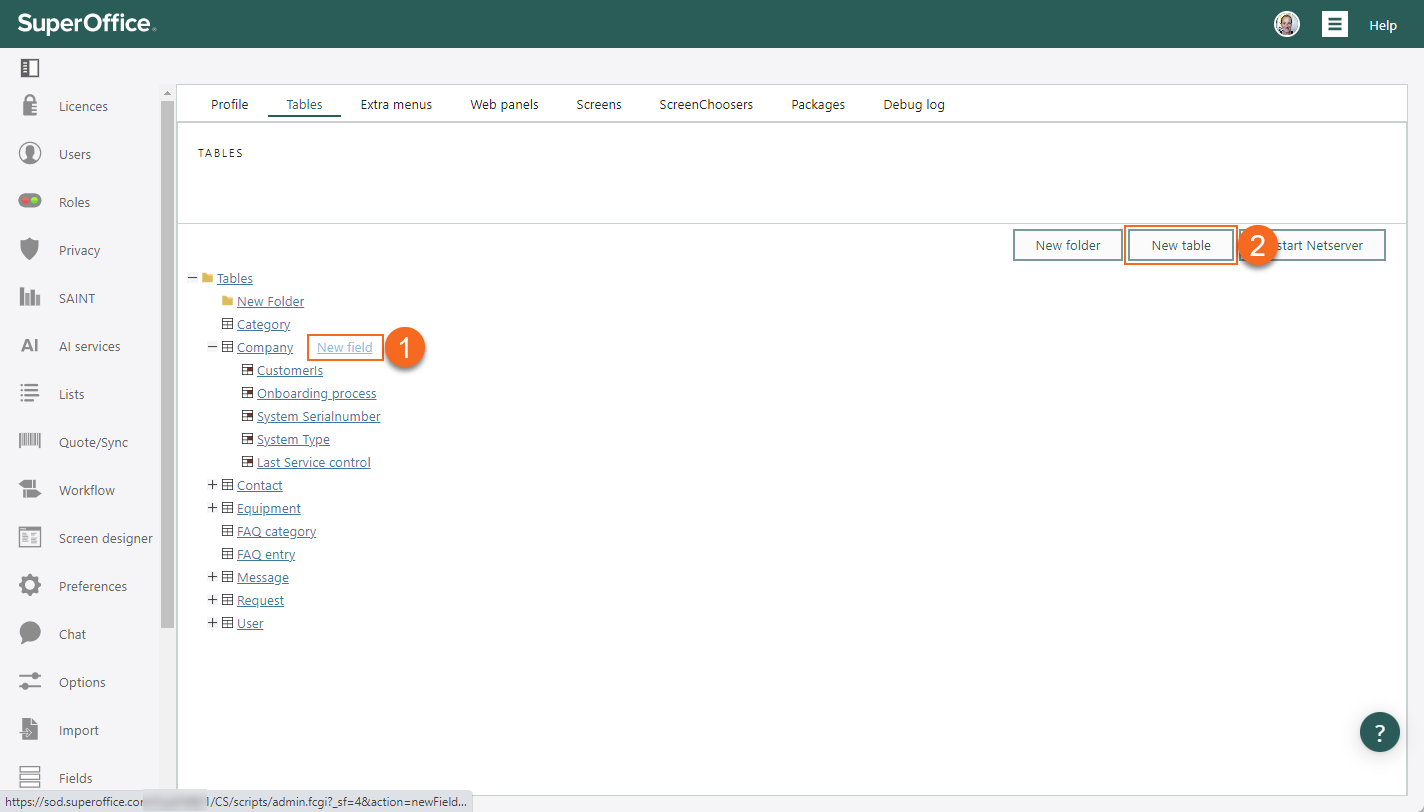
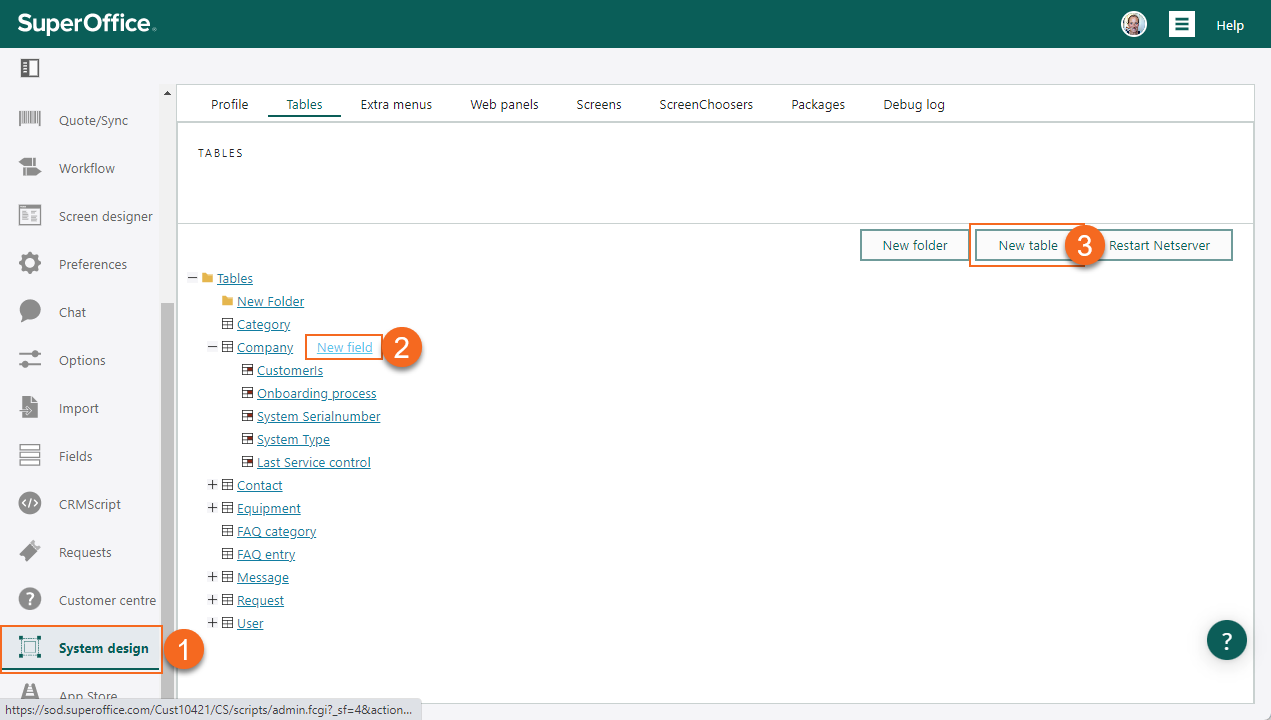
#608 Fine tune custom object

Changed region(s): [[0.0, 0.0, 1.0, 1.0], [0.6751, 0.1222, 1.0, 0.9778]]

diff --git a/docs/en/custom-objects/learn/index.md b/docs/en/custom-objects/learn/index.md
@@ -18,21 +18,26 @@ so.user.tooltip: Settings and maintenance
 
 ## User defined fields
 
-All companies and organizations have their own requirements for the information they need to register concerning their customers, sales, projects, contracts, and so on. You can enter your own fields for SuperOffice CRM in the **Fields** screen. This way, you can customize the type of information that can be registered concerning companies, contacts, projects, sales, documents and follow-ups.
+All companies and organizations have their own requirements for the information they need to register concerning their contacts, sales, projects, contracts, and so on. You can enter your own fields for SuperOffice CRM in the **Fields** screen. This way, you can customize the type of information that can be registered concerning companies, contacts, projects, sales, documents and follow-ups.
 
 ## Custom fields and tables
 
-A good example of a custom field you can use on the customer's Contact card is a field called "Satisfied customer", where the value of the field is Yes or No.
+A good example of a custom field you can use on the **Contact** card is a field called "Satisfied customer", where the value of the field is Yes or No.
 
-For example, you can send your customers a mailing (with link actions) where they can state whether they are satisfied with your services. This will give you valuable insight into the general customer satisfaction rate.
+For example, you can send your contacts a mailing (with link actions) where they can state whether they are satisfied with your services. This will give you valuable insight into the general customer satisfaction rate.
 
-Of course, you can add a wide range of tables and fields to SuperOffice Service to save any information your customer service agents need.
+Of course, you can add a wide range of tables and fields to SuperOffice to save any information your customer service agents need.
 
 ![In the Tables screen, you can either choose to (a) create an extra field or (b) create a new table -screenshot][img1]
 
+### Extra tables
+
+* [Introduction to extra tables][3]
+* [Define a table][4]
+
 ### Custom fields
 
-All companies and organizations have their own requirements for the information they need to register. This could be for customers, sales, projects, and so on. As an administrator, you can add your own fields in Settings and maintenance.
+All companies and organizations have their own requirements for the information they need to register. This could be for companies, contacts, sales, projects, and so on. As an administrator, you can add your own fields in Settings and maintenance.
 
 * [User-defined fields][1]
 * [Extra fields][2]
@@ -41,22 +46,17 @@ All companies and organizations have their own requirements for the information 
 
 Using the Find function, you can search for the information you register in these fields and make selections.
 
-For example, if you register the expiry date of the maintenance agreement that you have with customers, you can create a dynamic selection that shows the customers for which the agreement expires in less than one month.
+For example, if you register the expiry date of the maintenance agreement that you have with contacts, you can create a dynamic selection that shows the contacts for which the agreement expires in less than one month.
 
-You can reuse the information from these fields in documents and emails using template variables. Each field that you add gets its own unique ID (Prog ID), which can be used in documents to merge customer-specific information.
+You can reuse the information from these fields in documents and emails using template variables. Each field that you add gets its own unique ID (Prog ID), which can be used in documents to merge contact-specific information.
 
-So, if you want to send an email to your customers that says that their maintenance agreement will expire soon, you can use the template variable for expiry date to show the correct expiry date of their agreement in the message.
+So, if you want to send an email to your contacts that says that their maintenance agreement will expire soon, you can use the template variable for expiry date to show the correct expiry date of their agreement in the message.
 
 #### Positioning
 
 Any custom screen layouts (created in the Screen Designer) using screen designer may override the settings on fields.
 
 If you do not have license to Configurable Screens, use the rank of the different fields.
-
-### Extra tables
-
-* [Introduction to extra tables][3]
-* [Define a table][4]
 
 ## Related content
 

diff --git a/docs/en/custom-objects/learn/extra-table/index.md b/docs/en/custom-objects/learn/extra-table/index.md
@@ -15,53 +15,38 @@ language: en
 
 [!include[Requirement](../../../learn/includes/req-expander-services.md)]
 
-The **Tables** screen displays the tables that are configured in the system. Using these tables, you can store data in the system exactly as you wish.
+The **Tables** screen displays the tables that are configured in the system. Using these tables, you can store data in the system exactly as you wish. You can create new tables and fields for different cards and dialogs. Only administrators have access to this functionality.
+
+## Tables screen
+
+In the **Tables** there is a list of the database tables in SuperOffice. The data structures are configured in ![icon][img1] **System design** > **Tables**, where you can display and edit data content in the [tables][1].
+
+This screen displays both standard tables (predefined in the system and form the basis of different screens) and extra tables (tables you create yourself with optional content).
 
 > [!NOTE]
-> The data structures are configured in **System design** - **Tables**, where you can display and edit data content in the [tables][1]. Only administrators have access to this screen.
+> You will see a message that **NetServer** must be restarted every time you add new fields or tables.
 
-## View entries
+### Where to find the screen
 
-1. Click ![icon][img1] **System design** > **Tables** in the Navigator.
+1. [!include[Go to](../../../learn/includes/goto-sm.md)]
 
-1. Click the required table to expand it and view existing entries. If you cannot see the table entry you are looking for, click **Show criteria** and search.
+1. Click ![icon][img1] **System design** in the navigator and select the **Tables** tab.
 
-1. Double-click the required table entry in the list. Options:
-    * **Search**: Used to search for a table entry.
-    * **Edit**: Used to [edit the entry](#edit-entries).
-    * **New entry**: Used to [create a new entry](#create-entries).
-    * **Copy**: Used to copy the entry. This takes you to the same screen as for editing.
+### Table folder properties
 
-## Create entries
-
-1. Open an entry as described above.
-2. Click **New entry**. This screen contains one element for each column in the table. Available columns depend on what was specified when the table was created.
-3. Enter the required information.
-4. Click **OK**. The data entry is saved.
-
-## Edit entries
-
-1. Open an entry as described above.
-2. Click **Edit**. This screen contains one element for each column in the table. Available columns depend on what was specified when the table was created.
-3. Make the required changes in the information that is displayed.
-4. Click **OK**. The changes are saved.
-
-## Delete entries
-
-1. Open an entry as described above.
-2. Click **Edit**.
-3. Click the **Delete** button at the bottom of the screen.
-4. Click **OK** to confirm.
+This screen is used to edit the properties of a new or existing table folder. Table folders are used to organise your custom tables.
 
 ## Related topics
 
 * [Add extra tables][2]
 * [Add extra fields][3]
+* [User-defined fields][4]
 
 <!-- Referenced links -->
 [1]: ../../../ui/blogic/learn/index.md
 [2]: create.md
 [3]: ../extra-field/create.md
+[4]: ../../udef/index.md
 
 <!-- Referenced images -->
 [img1]: ../../../../../common/icons/nav-admin-systemdesign-active.png

diff --git a/docs/en/custom-objects/learn/extra-field/create.md b/docs/en/custom-objects/learn/extra-field/create.md
@@ -13,14 +13,14 @@ language: en
 
 # Add extra fields
 
-After you create an extra table, you must set up fields in the table, to allow you to subsequently input data (entries) into the table. You can also create extra fields in standard tables.
+After you create an [extra table][1], you must set up fields in the table, to allow you to subsequently input data (entries) into the table. You can also create extra fields in standard tables.
 
 > [!TIP]
 > Extra fields can for instance be used as search criteria and columns in sales in SuperOffice CRM.
 
 **Steps:**
 
-1. Click the **System design** button in the navigator. Then select the **Tables** tab.
+1. Click the ![icon][img1] **System design** button in the navigator. Then select the **Tables** tab.
 1. Browse to the table you want, point at the table name and click the button ![icon][img2].
 1. In the **New extra field** screen, select a field type in the **Type** list box.
 1. Click **OK**. The **Field properties** screen appears.
@@ -65,6 +65,8 @@ After you create an extra table, you must set up fields in the table, to allow y
 | View in relational choosers | If the current table has a relation with another table (extra table relation), select this option to make this field available as a search field. Example: You created an extra table called "Products" with an extra table relation to the **Requests** table. In this way you can search for and add products in the **Extra fields** tab when creating new requests. By selecting **View in relational choosers** for specific fields in the "Products" table, these fields are available as search fields in the **Extra fields** tab. |
 
 <!-- Referenced links -->
+[1]: ../extra-table/create.md
 
 <!-- Referenced images -->
+[img1]: ../../../../../common/icons/nav-admin-systemdesign-active.png
 [img2]: ../../../../media/icons/service/new-field.png

diff --git a/docs/en/custom-objects/learn/extra-table/create.md b/docs/en/custom-objects/learn/extra-table/create.md
@@ -2,7 +2,7 @@
 uid: help-en-extra-table-create
 title:  Define extra tables
 description:  Define extra tables
-author: HanneGunnarsson
+author: Hanne Gunnarsson
 so.date: 03.29.2023
 keywords: extra table
 so.topic: howto
@@ -13,7 +13,7 @@ language: en
 
 # Add extra tables
 
-You can create extra tables in SuperOffice to register different types of data. After you create the table and [create extra fields][1] in it, you can open the table to add content to it by going to ![icon][img3] **System design** > **Tables**, point at the table and click the button ![icon][img1].
+You can create extra tables in SuperOffice to register different types of data. After you create the table and [create extra fields][1] in it, you can open the table to add content to it by going to **System design** > **Tables**, point at the table and click the button ![icon][img1].
 
 > [!NOTE]
 > In SuperOffice you can create web panels that can contain table information. To set the relevant access rights, the user must belong to a role that has the functional rights **List tables** and **Edit tables**.
@@ -22,7 +22,7 @@ You can create extra tables in SuperOffice to register different types of data. 
 
 1. Go to the **Tables** screen.
 
-    * In Settings and maintenance: Click the **System design** button in the navigator. Then select the **Tables** tab.
+    * In Settings and maintenance: Click the ![icon][img3] **System design** button in the navigator. Then select the **Tables** tab.
 
 2. Click the button ![icon][img4]. The **Table properties** screen appears.
 

diff --git a/docs/en/ui/blogic/learn/index.md b/docs/en/ui/blogic/learn/index.md
@@ -6,6 +6,8 @@ author: SuperOffice RnD
 so.date: 02.23.2023
 keywords: System design
 so.topic: concept
+so.user: admin
+so.user.tooltip: Settings and maintenance
 language: en
 ---
 
@@ -46,7 +48,7 @@ Here you can find the advanced options in SuperOffice.
 By [adding extra tables and fields][1] to SuperOffice Service you can save a variety of information important for your company. You can add extra tables and fields to your Requests, Contact cards or Company cards.
 
 <!-- Referenced links -->
-[1]: ../../../custom-objects/learn/screen/tables.md
+[1]: ../../../custom-objects/learn/extra-table/index.md
 [2]: ../../../automation/crmscript/learn/index.md
 [3]: ../../../automation/crmscript/learn/macro-script.md
 [4]: ../../../automation/crmscript/learn/trigger.md

diff --git a/docs/en/admin/lists/learn/add-items-to-mailing-domain.md b/docs/en/admin/lists/learn/add-items-to-mailing-domain.md
@@ -2,7 +2,7 @@
 uid: help-en-add-items-to-mailing-domain
 title: Add items to Mailing Domain
 description: Add items to the Mailing Domain list
-author: HanneGunnarsson
+author: Hanne Gunnarsson
 so.date: 03.14.2023
 keywords: mailing, domain, SPF
 so.topic: howto

diff --git a/docs/en/request/learn/howto/edit-message.md b/docs/en/request/learn/howto/edit-message.md
@@ -2,7 +2,7 @@
 uid: help-en-request-message-edit
 title: Edit message
 description: How to edit a message in a request in SuperOffice
-author: HanneGunnarsson
+author: Hanne Gunnarsson
 keywords: request
 so.topic: howto
 so.user: user

diff --git a/docs/en/request/learn/category/delete.md b/docs/en/request/learn/category/delete.md
@@ -2,7 +2,7 @@
 uid: help-en-request-category-delete
 title: Delete category
 description: Delete category
-author: HanneGunnarsson
+author: Hanne Gunnarsson
 so.date: 03.29.2023
 keywords: request, category
 so.topic: howto

diff --git a/docs/en/request/learn/howto/split-message.md b/docs/en/request/learn/howto/split-message.md
@@ -2,7 +2,7 @@
 uid: help-en-request-message-split
 title: Split message
 description: Split message
-author: HanneGunnarsson
+author: Hanne Gunnarsson
 so.date: 03.16.2023
 keywords: request, message
 so.topic: howto

diff --git a/docs/en/request/learn/howto/fav.md b/docs/en/request/learn/howto/fav.md
@@ -1,6 +1,6 @@
 ---
 uid: help-en-request-fav
-author: HanneGunnarsson
+author: Hanne Gunnarsson
 title: Add requests to the favorites list
 description: Add requests to the favorites list
 so.date: 06.29.2022

diff --git a/docs/en/request/learn/howto/create.md b/docs/en/request/learn/howto/create.md
@@ -1,6 +1,6 @@
 ---
 uid: help-en-request-create
-author: HanneGunnarsson
+author: Hanne Gunnarsson
 title: Create a request
 description: Create a request
 so.date: 02.20.2023
